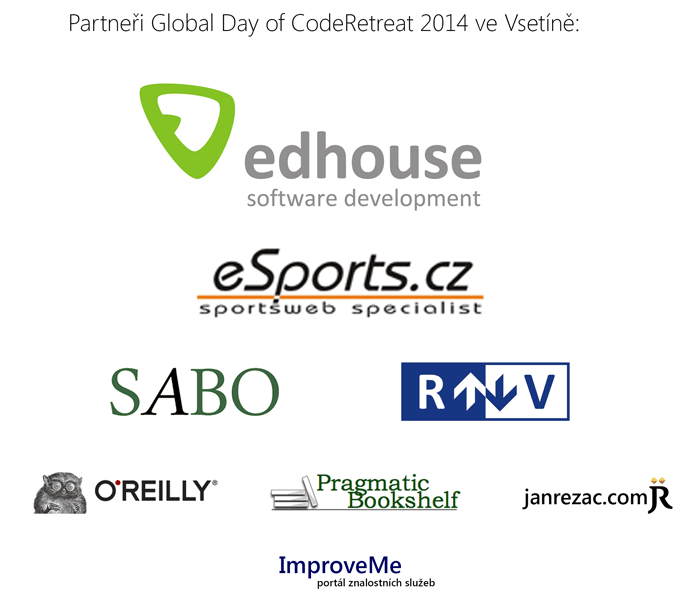
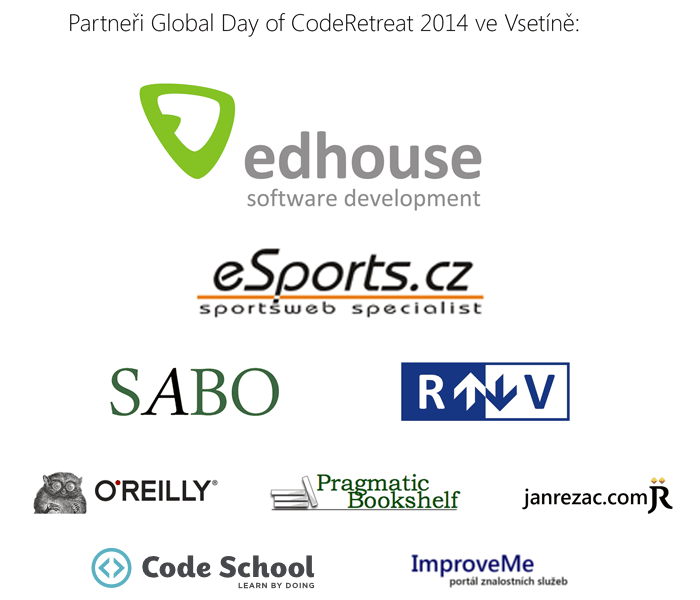
Added CodeSchool as partner for GDCR Vsetin 2014

Changed region(s): [[0.12, 0.9, 0.81, 0.99]]

diff --git a/_posts/2014-11-15-global-day-vsetin.html b/_posts/2014-11-15-global-day-vsetin.html
@@ -16,7 +16,8 @@ srazy: http://srazy.info/coderetreat/4822
 <area  alt="" title="O'Reilly Media" href="http://www.oreilly.com/" shape="rect" coords="18,448,230,537" style="outline:none;" target="_self"     />
 <area  alt="" title="Pragmatic Bookshelf" href="https://pragprog.com/" shape="rect" coords="239,452,490,540" style="outline:none;" target="_self"     />
 <area  alt="" title="Jan Řezáč" href="http://janrezac.com/" shape="rect" coords="487,451,694,542" style="outline:none;" target="_self"     />
-<area  alt="" title="ImproveMe - portál znalostních služeb" href="http://www.improveme.cz/" shape="rect" coords="252,541,459,600" style="outline:none;" target="_self"     />
+<area  alt="" title="ImproveMe - portál znalostních služeb" href="http://www.improveme.cz/" shape="rect" coords="400,545,583,600" style="outline:none;" target="_self"     />   
+<area  alt="" title="Code School - Learn by doing" href="http://www.codeschool.com/" shape="rect" coords="84,545,330,600" style="outline:none;" target="_self" />
 </map>
 </p>
 
